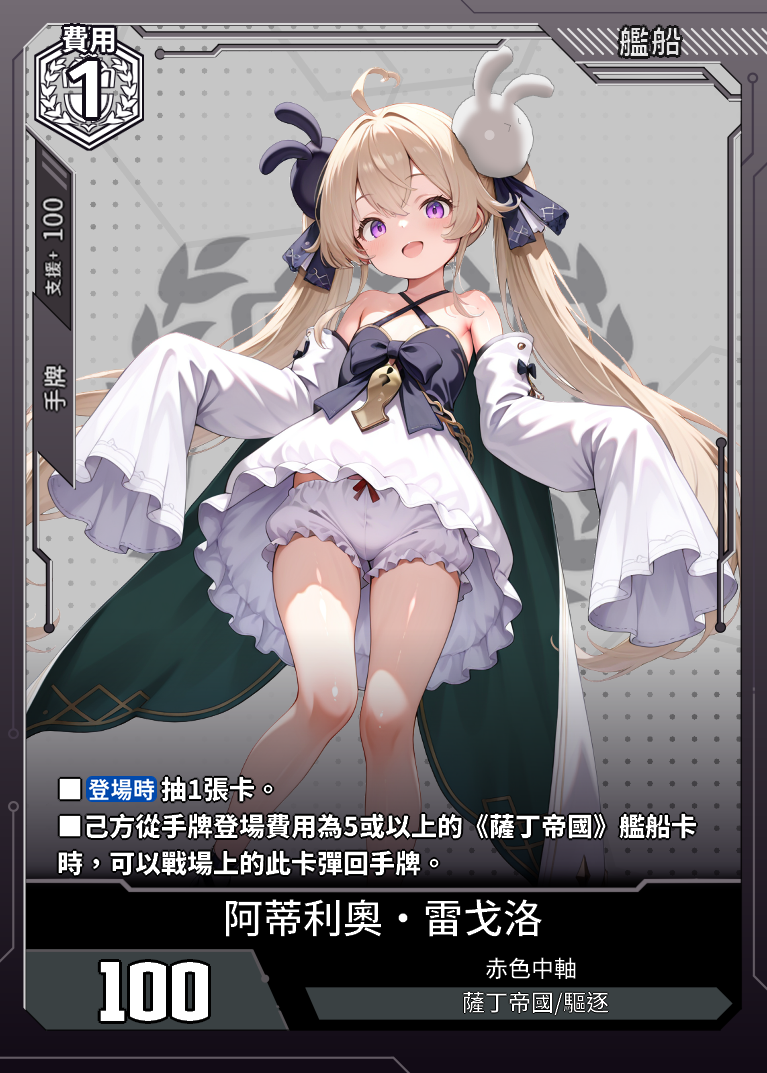
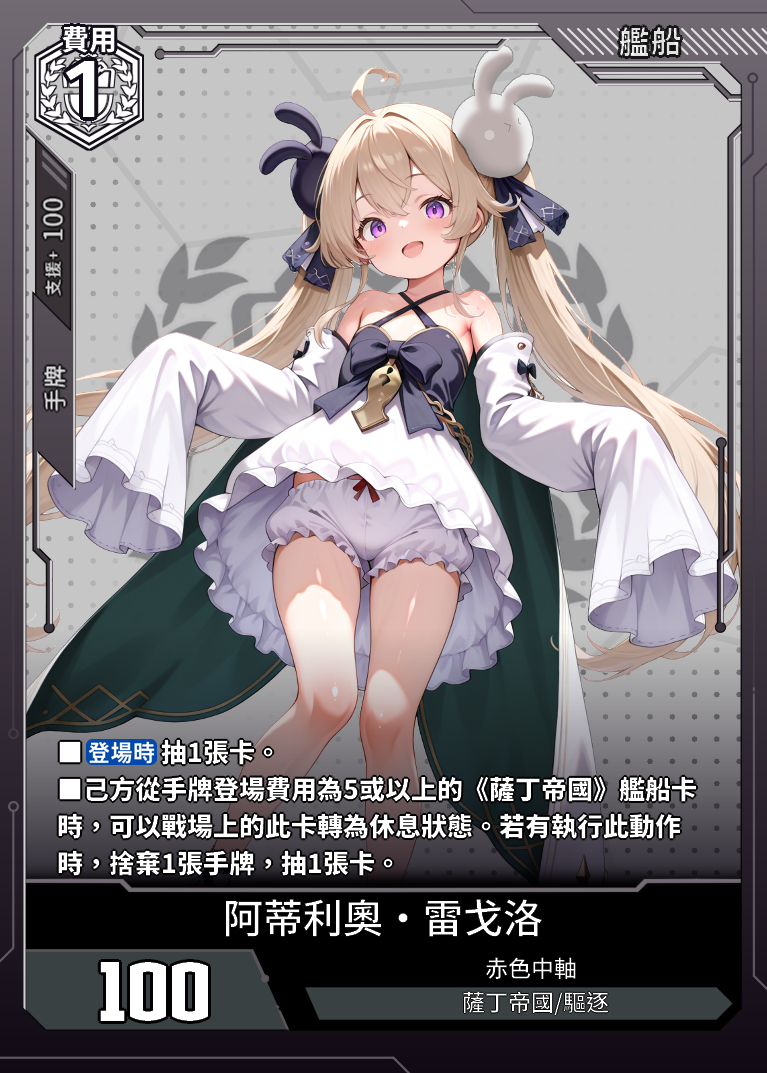
新增一些早期測試卡片，並修正已測出問題的

Changed region(s): [[0.06, 0.6766, 0.9296, 0.8304], [0.09, 0.0615, 0.1499, 0.123]]

diff --git a/data.js b/data.js
@@ -24150,6 +24150,63 @@ const cards = [
         "acquisition_method": "CE02-早期測試"
     },
 	{
+        "card_id": 7521190,
+        "card_name": "雪風",
+        "card_code": "CE02-119",
+        "attributes": {
+            "顏　色": "紅",
+            "種　類": "艦船卡",
+            "費　用": "3",
+            "戰　力": "400",
+            "陣　營": "重櫻",
+            "艦船類型": "航母",
+            "罕　貴": "-",
+            "勢　力": "赤色中軸",
+            "支援範圍": "手牌·戰場",
+            "支援值": "100"
+        },
+        "card_effect": "■當對手手牌數量為5或以下時，戰場上的此卡戰力+100。■【登場時】可以將己方戰場上除「雪風」以外的1張《重櫻》艦船卡擊破：對方捨棄1張手牌。",
+        "acquisition_method": "CE02-早期測試"
+    },
+	{
+        "card_id": 7521200,
+        "card_name": "長門",
+        "card_code": "CE02-120",
+        "attributes": {
+            "顏　色": "紅",
+            "種　類": "艦船卡",
+            "費　用": "6",
+            "戰　力": "600",
+            "陣　營": "重櫻",
+            "艦船類型": "戰列",
+            "罕　貴": "-",
+            "勢　力": "赤色中軸",
+            "支援範圍": "手牌·戰場",
+            "支援值": "100"
+        },
+        "card_effect": "■【主階段啟動】捨棄2張《重櫻》事件卡並將己方正面表示的4張魔方卡轉為休息狀態：將手牌中的此卡登場。之後，當己方的旗艦卡為《重櫻》〈戰列〉/〈航母〉卡牌時，抽2張卡。（此技能在手牌中發動）■【遠程】",
+        "acquisition_method": "CE02-早期測試"
+    },
+	{
+        "card_id": 7521210,
+        "card_name": "赤城(μ兵裝)",
+        "card_code": "CE02-121",
+        "attributes": {
+            "顏　色": "紅",
+            "種　類": "艦船卡",
+            "費　用": "3",
+            "戰　力": "400",
+            "陣　營": "重櫻",
+            "艦船類型": "航母",
+            "罕　貴": "-",
+            "勢　力": "赤色中軸",
+            "支援範圍": "手牌·戰場",
+            "支援值": "100"
+        },
+        "card_effect": "■【強擊+200】■【己方回合中】戰場上的此卡費用+2。■此卡通過攻擊擊破對方的艦船卡或對對方的旗艦卡造成傷害的戰鬥結束時，捨棄1張手牌。",
+        "acquisition_method": "CE02-早期測試"
+    },
+	{
         "card_id": 7522010,
         "card_name": "拉菲",
         "card_code": "CE02-201",
@@ -24489,6 +24546,25 @@ const cards = [
             "支援值": "-"
         },
         "card_effect": "■此卡的名稱在規則上被視為「μ兵裝」。■【追擊】將己方戰場上的1張艦船卡彈回手牌。若有執行此動作時，抽1張卡。",
+        "acquisition_method": "CE02-早期測試"
+    },
+	{
+        "card_id": 7522190,
+        "card_name": "拉菲II",
+        "card_code": "CE02-219",
+        "attributes": {
+            "顏　色": "藍",
+            "種　類": "艦船卡",
+            "費　用": "3",
+            "戰　力": "500",
+            "陣　營": "白鷹",
+            "艦船類型": "驅逐",
+            "罕　貴": "-",
+            "勢　力": "碧藍航線",
+            "支援範圍": "手牌",
+            "支援值": "100"
+        },
+        "card_effect": "■己方戰場上的「拉菲」以外的《白鷹》艦船卡無法被對方艦船卡的技能選擇。",
         "acquisition_method": "CE02-早期測試"
     },
 	{
@@ -24834,6 +24910,44 @@ const cards = [
         "acquisition_method": "CE02-早期測試"
     },
 	{
+        "card_id": 7523190,
+        "card_name": "胡德",
+        "card_code": "CE02-319",
+        "attributes": {
+            "顏　色": "黃",
+            "種　類": "艦船卡",
+            "費　用": "4",
+            "戰　力": "500",
+            "陣　營": "皇家",
+            "艦船類型": "戰巡",
+            "罕　貴": "-",
+            "勢　力": "碧藍航線",
+            "支援範圍": "手牌·戰場",
+            "支援值": "100"
+        },
+        "card_effect": "■【主階段啟動】可以將己方正面表示的3張魔方卡轉為休息狀態，並且公開己方手牌中的3張費用為6或以下的《皇家》〈重巡〉/〈戰巡〉/〈戰列〉艦船卡：將手牌中的此卡登場。（此技能在手牌中發動）■【登場時】從以下選擇1項。・抽1張卡。・本回合中，位於前排的此卡可以攻擊對方處於休息狀態的艦船卡。",
+        "acquisition_method": "CE02-早期測試"
+    },
+	{
+        "card_id": 7523200,
+        "card_name": "小可畏",
+        "card_code": "CE02-320",
+        "attributes": {
+            "顏　色": "黃",
+            "種　類": "艦船卡",
+            "費　用": "6",
+            "戰　力": "100",
+            "陣　營": "皇家",
+            "艦船類型": "航母",
+            "罕　貴": "-",
+            "勢　力": "碧藍航線",
+            "支援範圍": "手牌·戰場",
+            "支援值": "100"
+        },
+        "card_effect": "■所有區域的此卡同樣被視為「可畏」。■當己方旗艦卡為《皇家》卡牌時，手牌中的此卡登場時所需支付費用-3。■【登場時】可以將此卡以及己方的旗艦卡轉為休息狀態：選擇對方戰場上的1張費用為3或以下的艦船卡，將該卡轉為休息狀態，並且在下一個對方的重置階段中，該卡不能被轉為激活狀態。",
+        "acquisition_method": "CE02-早期測試"
+    },
+	{
         "card_id": 7524010,
         "card_name": "Z23",
         "card_code": "CE02-401",
@@ -25058,7 +25172,7 @@ const cards = [
             "支援範圍": "手牌",
             "支援值": "100"
         },
-        "card_effect": "■【登場時】抽1張卡。■己方從手牌登場費用為5或以上的《薩丁帝國》艦船卡時，可以戰場上的此卡彈回手牌。",
+        "card_effect": "■【登場時】抽1張卡。■己方從手牌登場費用為5或以上的《薩丁帝國》艦船卡時，可以戰場上的此卡轉為休息狀態。若有執行此動作時，捨棄1張手牌，抽1張卡。",
         "acquisition_method": "CE02-早期測試"
     },
 	{
@@ -25096,7 +25210,7 @@ const cards = [
             "支援範圍": "手牌·戰場",
             "支援值": "100"
         },
-        "card_effect": "■【登場時】當己方手牌數量為奇數時，本回合中，對方前排的1張艦船卡戰力-600。之後，若該卡的戰力降為0或以下時，將該卡擊破。■【己方主階段開始時】當己方手牌數量為偶數時，將此卡轉為休息狀態。",
+        "card_effect": "■【登場時】當己方手牌數量為奇數時，本回合中，對方前排的1張艦船卡戰力-600。之後，若該卡的戰力降為0或以下時，將該卡擊破。■【己方主階段開始時】當己方手牌數量為5或以上時，將此卡轉為休息狀態。",
         "acquisition_method": "CE02-早期測試"
     },
 	{
@@ -25144,8 +25258,8 @@ const cards = [
         "attributes": {
             "顏　色": "黑",
             "種　類": "艦船卡",
-            "費　用": "5",
-            "戰　力": "600",
+            "費　用": "2",
+            "戰　力": "100",
             "陣　營": "薩丁帝國",
             "艦船類型": "潛艇",
             "罕　貴": "-",
@@ -25448,7 +25562,7 @@ const cards = [
         "attributes": {
             "顏　色": "無",
             "種　類": "事件卡",
-            "費　用": "1",
+            "費　用": "0",
             "戰　力": "-",
             "陣　營": "-",
             "艦船類型": "-",
